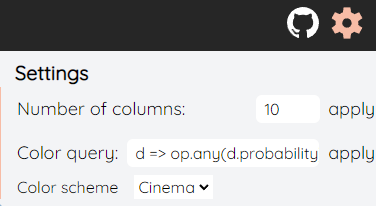
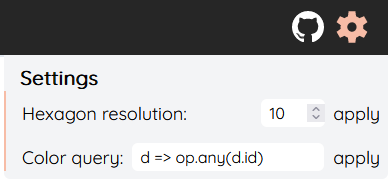
docs: addressed @sparkier comments

diff --git a/hierarchical-image-explorer/src/components/minis/Settings.svelte b/hierarchical-image-explorer/src/components/minis/Settings.svelte
@@ -64,7 +64,7 @@
               settingsObject.columns = numCols;
             }}
           >
-            <div class="text-lg pr-2 ">Number of columns:</div>
+            <div class="text-lg pr-2 ">Hexagon resolution:</div>
             <input
               class="w-16 rounded-md focus:outline-none focus:border-hie-orange
             focus:ring-hie-orange focus:ring-2 pl-2 ml-auto"

diff --git a/README.md b/README.md
@@ -1,12 +1,12 @@
 # Hierarchical Image Explorer (HIE)
 ![image](docs/img/banner.png)
-The goal of this project was to develop a Level of Detail visualization for large-scale image datasets, that allows interactive exploration of the data. It is part of the specialization subject Computer Graphics in the 5th and 6th semester for computer science and media students at Ulm University.
+The goal of this project was to develop a Level of Detail visualization for large-scale image datasets that allows interactive exploration of the data. It is part of the specialization subject Computer Graphics in the 5th and 6th semester for computer science and media students at Ulm University.
 
 ![image](docs/img/fullscreen_view.png)
 
 ---
 
-## Frontend
+## Frontend development
 The project with an example dataset loaded can be found [here](http://nemesis.informatik.uni-ulm.de/frontend/main/).
 
 ### Starting up
@@ -52,8 +52,9 @@ Furthermore, if the dataset provides adequate columns such as labels, outlier sc
 
 Settings can be changed in the settings menu (gearwheel) in the upper right corner. You can alternate the following:
 
-1. Number of columns
-    - change the number of columns displayed (standard setting is 10)
+1. Resolution
+    - determines how many hexagons will be layed over the data and will be displayed on screen (higher resolution -> more hexagons, vice versa)
+    - effectively changes the number of columns displayed (standard setting is 10)
     - *note: since hexagons have to be shifted by half a hexagon every row to get a perfect fit, only columns with hexagons having the same height are counted as one column and too high values (>20) may lead to performance issues*
 
 2. Color query
@@ -63,8 +64,8 @@ Settings can be changed in the settings menu (gearwheel) in the upper right corn
 
 ---
 
-## Backend
-This section covers the interaction with the backend of the image explorer. You will learn how to get the project started on your local machine, as well as how to integrate new datasets.
+## Backend development
+This section covers the interaction with the backend of the image explorer. You will learn how to get the project started on your local machine, as well as how to integrate new datasets. The backend provides the frontend with the image data as an arrow table as well as the images itself. Furthermore, it handles everything from preparing new datasets, to aggregating and loading in the datasets to be explored in the frontend.
 
 ### Getting started
 
